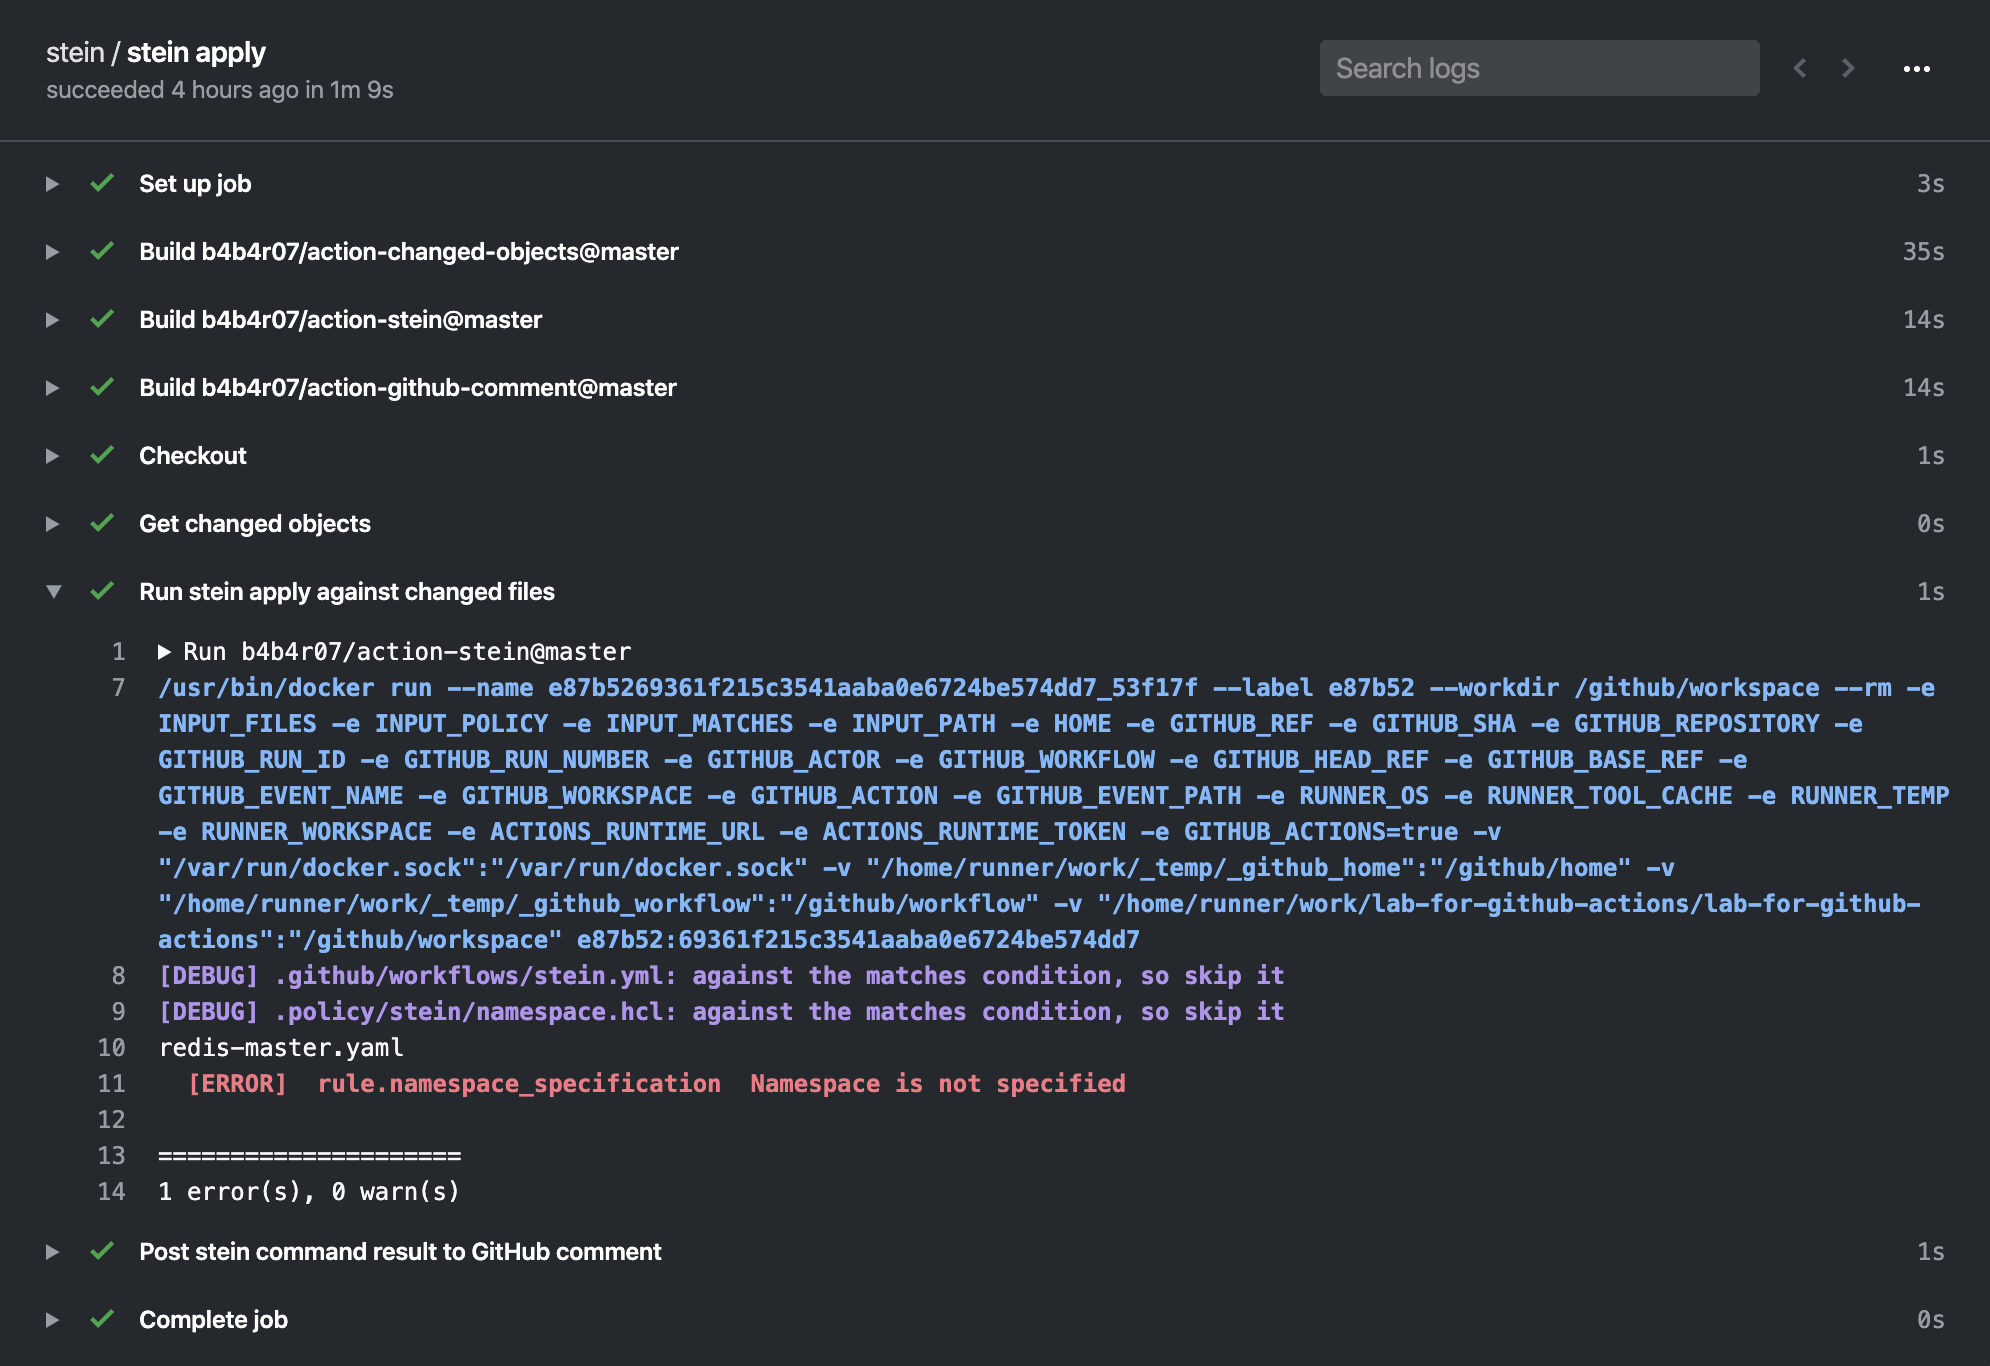
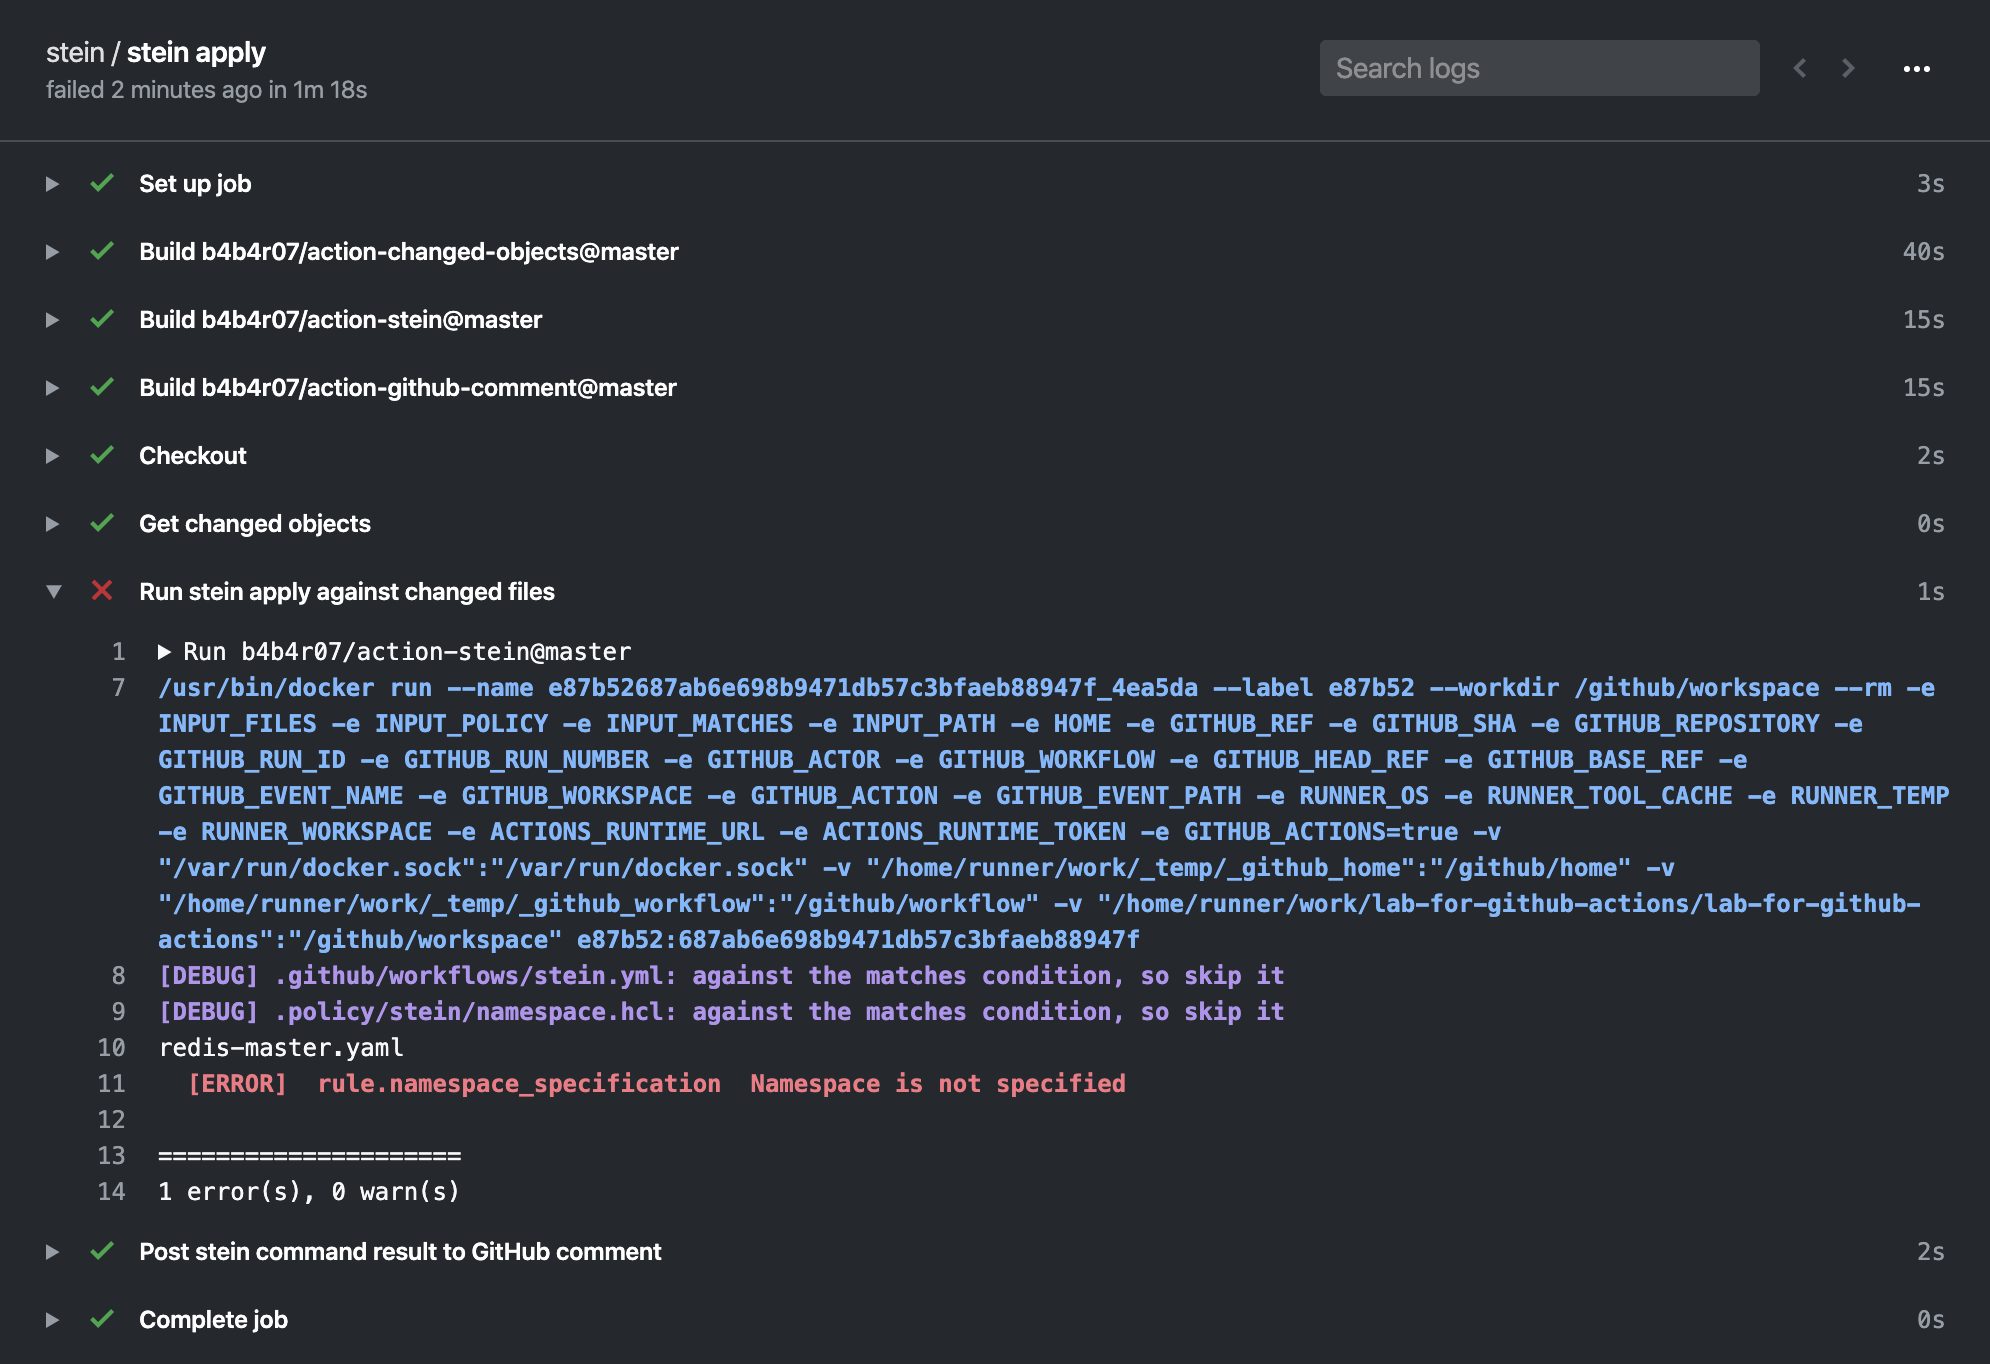
Take care status code

diff --git a/README.md b/README.md
@@ -41,7 +41,7 @@ jobs:
       id: stein
     - name: Post stein command result to GitHub comment
       uses: b4b4r07/action-github-comment@master
-      if: steps.stein.outputs.result
+      if: always() && steps.stein.outputs.result
       with:
         body: |
           ## stein apply result
@@ -64,6 +64,14 @@ In addition, you can filter the changed files, for example, let's say you want t
 ```
 
 Besides, if you want to post the `stein apply` command result on your pull requests, you need to set the step `Post stein command result to GitHub comment`. The contents of `body` is the message itself. You can configure it as Markdown. For more details, please see also [b4b4r07/action-github-comment](https://github.com/b4b4r07/action-github-comment).
+
+To put the comment on GitHub even if the previous `stein` step is failed, you need to set [`always()` condition](https://help.github.com/en/actions/reference/contexts-and-expression-syntax-for-github-actions#job-status-check-functions) like this:
+
+```yaml
+      if: always() && steps.stein.outputs.result
+```
+
+This means the comment will be posted to GitHub regardless of previous build step but at least the output of previous step needs to be not empty.
 
 <img src="docs/comment.png" width="600">
 
